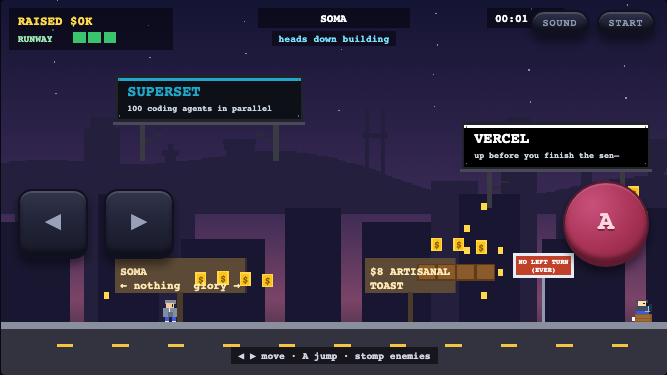
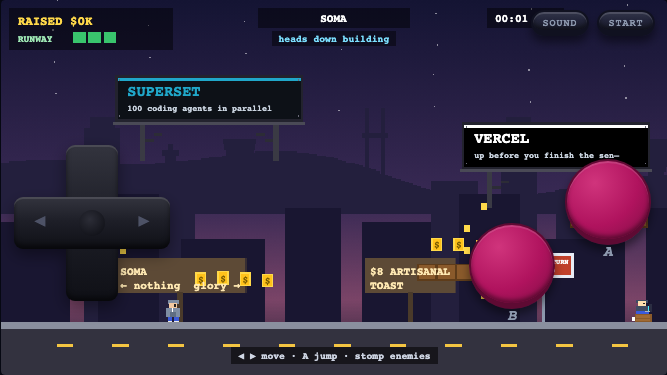
OMNICORP GAME BRO™: photo-accurate DMG deck, B button pitches the deck
Matched against the owner's reference photo in a Playwright screenshot
loop: one solid black cross d-pad (pseudo-element bars, transparent L/R
touch zones, center dish), magenta dome B/A set diagonally with navy
shell-print labels beneath, slanted silver SELECT/START-style pills
(SOUND/START), the diagonal speaker-slot grille done as rounded silver
slots, and the OMNICORP GAME BRO(tm) logo line top-left. B is a real
input now: it pitches the deck (same gate as X — only while holding
one), verified functionally. Fixed en route: #dpad container matched
the #touch div selector and rendered as a stray 70px tile.

diff --git a/index.html b/index.html
@@ -135,20 +135,54 @@ if (/^https?:$/.test(location.protocol) && location.hostname !== 'localhost'
   }
   #touch div:active { border-bottom-width:2px; transform:translateY(4px);
     box-shadow:inset 0 2px 6px rgba(0,0,0,.5), 0 1px 2px rgba(0,0,0,.3); }
-  #tL{left:calc(18px + env(safe-area-inset-left, 0px)); border-radius:14px 4px 4px 14px}
-  #tR{left:calc(104px + env(safe-area-inset-left, 0px)); border-radius:4px 14px 14px 4px}
-  #touch div#tJ{right:calc(18px + env(safe-area-inset-right, 0px)); width:86px; height:86px; line-height:78px; border-radius:50%;
-                background:radial-gradient(circle at 34% 28%, #c8517c 0%, #a83355 55%, #7e1f3e 100%);
-                color:#ffd6e0; border-color:#5e1b30; text-shadow:0 2px 0 rgba(0,0,0,.35);}
+  /* DMG cross d-pad: ONE solid black cross (two bars drawn by the container's
+     pseudo-elements), the L/R arms are transparent touch zones on top */
+  #touch div#dpad { position:absolute; width:156px; height:156px; pointer-events:none;
+          bottom:auto; background:none; border:0; box-shadow:none; border-radius:0; line-height:normal;
+          filter:drop-shadow(0 6px 8px rgba(0,0,0,.4)); }
+  #dpad::before, #dpad::after { content:''; position:absolute; border-radius:9px;
+          background:linear-gradient(180deg, #33343e 0%, #1e1f28 45%, #0f1016 100%);
+          box-shadow:inset 0 2px 0 rgba(255,255,255,.12), inset 0 -4px 5px rgba(0,0,0,.5); }
+  #dpad::before { left:52px; top:0; width:52px; height:156px; }
+  #dpad::after  { left:0; top:52px; width:156px; height:52px; }
+  #dpad div { position:absolute; bottom:auto; width:52px; height:52px; z-index:2;
+              background:none; border:0; box-shadow:none;
+              line-height:52px; font-size:18px; color:#4d5266; }
+  #dpad .dec { pointer-events:none; }
+  #dUp { left:52px; top:0; } #dDn { left:52px; top:104px; }
+  #dCtr{ left:52px; top:52px; }
+  #dCtr::after { content:''; position:absolute; inset:13px; border-radius:50%; z-index:3;
+                 background:radial-gradient(circle at 42% 36%, #2c2d37 0%, #13141b 75%); }
+  #tL { left:0; top:52px; pointer-events:auto; }
+  #tR { left:104px; top:52px; pointer-events:auto; }
+  #tL:active, #tR:active { color:#9aa0b8; transform:none; border:0; }
+  #touch div#tJ, #touch div#tB{right:calc(18px + env(safe-area-inset-right, 0px)); width:86px; height:86px; border-radius:50%;
+                background:radial-gradient(circle at 34% 28%, #d0347c 0%, #b0135e 55%, #7e0f44 100%);
+                color:transparent; border-color:#5e0a33; overflow:visible;}
+  #touch div#tJ::after, #touch div#tB::after { position:absolute; left:50%; bottom:-22px; transform:translateX(-50%);
+                content:'A'; color:#2d3a8c; font:bold italic 15px "Courier New",monospace; }
+  #touch div#tB::after { content:'B'; }
+  /* landscape (dark deck): the navy labels vanish on #101120 — lighten there */
+  @media (pointer: coarse) and (orientation: landscape) {
+    #touch div#tJ::after, #touch div#tB::after { color:#8d99ae; }
+    #dpad div { line-height:48px; }
+  }
+  #grille { position:fixed; display:none; z-index:4; pointer-events:none; transform:rotate(-22deg); }
+  #grille i { display:inline-block; width:11px; height:58px; border-radius:6px; margin-right:10px;
+              background:linear-gradient(90deg, #6f6a5e 0%, #3f3b32 45%, #8a8478 100%);
+              box-shadow:inset 0 3px 4px rgba(0,0,0,.55), 1px 1px 0 rgba(255,255,255,.5); }
   #touch div#tP, #touch div#tS{
     top:calc(10px + env(safe-area-inset-top, 0px)); bottom:auto;
     width:58px; height:26px; line-height:24px; font-size:10px; letter-spacing:1px;
     border-radius:13px; transform:rotate(0deg); color:#8d99ae; }
   #touch div#tP{ right:calc(12px + env(safe-area-inset-right, 0px)); }
   #touch div#tS{ right:calc(78px + env(safe-area-inset-right, 0px)); }
-  #shellBrand { position:fixed; display:none; z-index:4; left:0; right:0; text-align:center;
-                font:bold 11px "Courier New",monospace; color:#3f4258; letter-spacing:3px;
+  #shellBrand { position:fixed; display:none; z-index:4; left:24px; right:auto; text-align:left;
+                font:bold 11px "Courier New",monospace; color:#2d3a8c; letter-spacing:0;
                 pointer-events:none; }
+  #shellBrand b { font-size:11px; margin-right:6px; letter-spacing:1px; }
+  #shellBrand em { font-size:19px; font-style:italic; letter-spacing:1px; }
+  #shellBrand span { font-size:8px; vertical-align:super; }
   #shellBrand i { display:inline-block; width:6px; height:6px; border-radius:50%;
                   background:#7cffa5; margin-right:8px; vertical-align:1px; } /* power LED — steady, of course */
   @media (pointer: coarse) {
@@ -158,12 +192,17 @@ if (/^https?:$/.test(location.protocol) && location.hostname !== 'localhost'
   /* vintage handheld body (owner ask: '3D, vintage, like the old Nintendo handhelds') —
      portrait only; the DMG greige, the charcoal screen surround, the slanted pills */
   @media (pointer: coarse) and (orientation: portrait) {
-    body { background:linear-gradient(180deg, #b9b3a6 0%, #aaa294 55%, #9c9484 100%); }
+    body { background:linear-gradient(180deg, #c9c4b8 0%, #b9b3a6 45%, #a89f8f 100%); } /* DMG greige, matched to the reference photo */
     canvas#game { outline:10px solid #3a3f4a; border-radius:6px;
                   box-shadow:0 0 0 22px #454b58, 0 0 0 24px #2e323c, 0 10px 24px rgba(0,0,0,.35); }
     #shellBrand { color:#6f6857; letter-spacing:3px; }
-    #touch div#tP, #touch div#tS { transform:rotate(-18deg); background:linear-gradient(180deg,#8f8878,#6f6857);
-                                   color:#f0ece2; border-color:#4a4437; border-bottom-width:4px; }
+    #touch div#tP, #touch div#tS { transform:rotate(-24deg); color:transparent; overflow:visible;
+                                   background:linear-gradient(180deg,#7c7669 0%,#9d968a 45%,#c9c4b8 100%);
+                                   border-color:#dfdbd0; border-width:2px; border-bottom-width:2px; border-radius:14px;
+                                   box-shadow:inset 0 4px 6px rgba(0,0,0,.45), 0 1px 0 rgba(255,255,255,.6); }
+    #touch div#tP::after, #touch div#tS::after { position:absolute; left:50%; bottom:-19px; transform:translateX(-50%);
+                                   content:'START'; color:#2d3a8c; font:bold 10px "Courier New",monospace; letter-spacing:1px; }
+    #touch div#tS::after { content:'SOUND'; }
   }
   #bezelLabel { position:fixed; display:none; z-index:4; left:0; right:0; text-align:center;
                 font:bold 8px "Courier New",monospace; color:#8a92a6; letter-spacing:2px; pointer-events:none; }
@@ -228,9 +267,14 @@ if (/^https?:$/.test(location.protocol) && location.hostname !== 'localhost'
 <body>
 <div id="wrap"><div id="stack"><canvas id="game" width="480" height="270"></canvas><canvas id="txt"></canvas></div></div>
 <div id="ui"><div class="card" id="uicard"></div></div>
-<div id="touch"><div id="tL">◀</div><div id="tR">▶</div><div id="tJ">A</div><div id="tP">START</div><div id="tS">SOUND</div></div>
-<div id="shellBrand"><i></i>SF SPEEDRUN</div>
+<div id="touch">
+  <div id="dpad"><div class="dec" id="dUp"></div><div id="tL">◀</div><div class="dec" id="dCtr"></div><div id="tR">▶</div><div class="dec" id="dDn"></div></div>
+  <div id="tB">B</div><div id="tJ">A</div>
+  <div id="tP">START</div><div id="tS">SOUND</div>
+</div>
+<div id="shellBrand"><i></i><b>OMNICORP</b><em>GAME BRO</em><span>™</span></div>
 <div id="bezelLabel">DOT MATRIX WITH VENTURE SOUND</div>
+<div id="grille"><i></i><i></i><i></i><i></i><i></i><i></i></div>
 <button id="pauseChip">⏸ PAUSE</button>
 <div id="pauseMenu"><div class="card">
   <div style="color:#ffd94a; font-size:16px">PAUSED</div>
@@ -341,34 +385,43 @@ function fit() {
   // deck). Landscape = GBA (d-pad mid-left of the screen, A mid-right — thumbs rest
   // where the hardware would put them, and nothing sits over the ground line).
   const midY = Math.max(0, (window.innerHeight - 70) * 0.62); // landscape thumb arc, below the billboard band
-  for (const id of ['tL','tR','tJ']){
-    const el = document.getElementById(id);
-    if (portrait){ // deck hugs the BOTTOM of the phone — thumbs live there, not mid-screen (owner screenshots)
-      el.style.top = 'auto'; el.style.bottom = 'calc(120px + env(safe-area-inset-bottom, 0px))';
-      if (id === 'tJ'){ el.style.width = el.style.height = '104px'; el.style.lineHeight = '96px'; }
-      else { el.style.width = el.style.height = '80px'; el.style.lineHeight = '72px'; }
-    } else {
-      el.style.bottom = 'auto'; el.style.top = (id === 'tJ' ? midY - 8 : midY) + 'px';
-      el.style.width = el.style.height = el.style.lineHeight = '';
-    }
+  // DMG deck geometry (reference photo): cross pad left, B/A diagonal right (A high, B low),
+  // pills center-bottom, grille bottom-right. Portrait anchors to the bottom (thumbs).
+  const dpad = document.getElementById('dpad'), tJ2 = document.getElementById('tJ'), tB2 = document.getElementById('tB');
+  if (portrait){
+    dpad.style.left = 'calc(20px + env(safe-area-inset-left, 0px))'; dpad.style.right = 'auto';
+    dpad.style.top = 'auto'; dpad.style.bottom = 'calc(130px + env(safe-area-inset-bottom, 0px))';
+    tJ2.style.top = 'auto'; tJ2.style.bottom = 'calc(196px + env(safe-area-inset-bottom, 0px))';
+    tJ2.style.right = 'calc(20px + env(safe-area-inset-right, 0px))';
+    tB2.style.top = 'auto'; tB2.style.bottom = 'calc(162px + env(safe-area-inset-bottom, 0px))';
+    tB2.style.right = 'calc(116px + env(safe-area-inset-right, 0px))';
+  } else {
+    dpad.style.left = 'calc(14px + env(safe-area-inset-left, 0px))'; dpad.style.right = 'auto';
+    dpad.style.bottom = 'auto'; dpad.style.top = (midY - 44) + 'px';
+    tJ2.style.bottom = 'auto'; tJ2.style.top = (midY - 30) + 'px';
+    tJ2.style.right = 'calc(16px + env(safe-area-inset-right, 0px))';
+    tB2.style.bottom = 'auto'; tB2.style.top = (midY + 34) + 'px';
+    tB2.style.right = 'calc(112px + env(safe-area-inset-right, 0px))';
   }
   const tP = document.getElementById('tP'), tS = document.getElementById('tS');
   if (portrait){
-    tP.style.top = 'auto'; tP.style.bottom = 'calc(64px + env(safe-area-inset-bottom, 0px))'; tP.style.right = 'auto'; tP.style.left = 'calc(50% + 8px)';
-    tS.style.top = 'auto'; tS.style.bottom = 'calc(64px + env(safe-area-inset-bottom, 0px))'; tS.style.right = 'calc(50% + 8px)';
+    tP.style.top = 'auto'; tP.style.bottom = 'calc(64px + env(safe-area-inset-bottom, 0px))'; tP.style.right = 'auto'; tP.style.left = 'calc(50% - 20px)';
+    tS.style.top = 'auto'; tS.style.bottom = 'calc(64px + env(safe-area-inset-bottom, 0px))'; tS.style.right = 'calc(50% + 20px)';
   } else {
     tP.style.top = ''; tP.style.bottom = ''; tP.style.right = ''; tP.style.left = '';
     tS.style.top = ''; tS.style.bottom = ''; tS.style.right = '';
   }
   const brand = document.getElementById('shellBrand');
   brand.style.display = (isTouch && portrait) ? 'block' : 'none';
-  const bz = document.getElementById('bezelLabel');
+  const bz = document.getElementById('bezelLabel'), grille = document.getElementById('grille');
   if (portrait){
-    const deckTop = window.innerHeight - 120 - 80; // matches the d-pad bottom anchor
     const sb = stack.getBoundingClientRect().bottom;
     bz.style.display = 'block'; bz.style.top = Math.round(sb + 30) + 'px';
-    brand.style.top = Math.round(sb + Math.max(44, (deckTop - sb) / 2)) + 'px';
-  } else bz.style.display = 'none';
+    brand.style.top = Math.round(sb + 52) + 'px'; // logo top-left under the bezel, like the shell print
+    grille.style.display = 'block';
+    grille.style.right = '10px'; grille.style.left = 'auto';
+    grille.style.top = 'auto'; grille.style.bottom = 'calc(28px + env(safe-area-inset-bottom, 0px))';
+  } else { bz.style.display = 'none'; grille.style.display = 'none'; }
   // install hint: iOS Safari, not yet installed, not dismissed, title only (stepGame hides it on start)
   const standalone = navigator.standalone === true || matchMedia('(display-mode: standalone)').matches;
   let a2hsSeen = false; try { a2hsSeen = localStorage.getItem('fm_a2hs3') === '1'; } catch(e){}
@@ -558,6 +611,11 @@ if ('ontouchstart' in window) {
   document.getElementById('tS').addEventListener('touchstart', e => {
     e.preventDefault(); e.stopPropagation();
     initAudio(); setMuted(!muted);
+  }, {passive:false});
+  document.getElementById('tB').addEventListener('touchstart', e => {
+    e.preventDefault(); e.stopPropagation();
+    initAudio();
+    if (state === ST.PLAY) throwDeck(); // B = pitch, only fires while holding a PITCH DECK (same as X)
   }, {passive:false});
   cv.addEventListener('touchstart', e => {
     e.preventDefault(); anyKeyPressed = true; idleT = 0; initAudio();

diff --git a/qa/CHANGELOG.md b/qa/CHANGELOG.md
@@ -910,3 +910,15 @@ consciously: install-hint legs replace rotate-prompt legs; deck asserted bottom-
    any damage; the tick itself now reads 'BURN RATE — no time for breaks'. Verified live: warning →
    tick → -1 RUNWAY.
 4. Mobile probe updated to walk the real install flow (chip → card with 3 steps → GOT IT persists).
+
+## 2026-07-21 — [OMNICORP GAME BRO™] photo-accurate DMG deck (owner reference photo)
+
+Matched to the owner's Game Boy photo via a Playwright screenshot loop: ONE solid black cross d-pad
+(container pseudo-element bars; L/R arms are transparent touch zones; a specificity bug briefly
+rendered the container as a 70px button tile — caught by inspection), two magenta dome buttons set
+diagonally with navy italic labels UNDER them like the shell print — and **B now pitches the deck**
+(touch finally has the real verb; functionally verified: deckT set → tap B → deck shot spawns),
+A jumps. SELECT/START-style slanted silver pill wells labeled SOUND/START beneath, the diagonal
+silver speaker-slot grille returns (rounded slots, not the gradient bars the owner rejected), and the
+logo line reads **OMNICORP GAME BRO™** (owner-picked from four options) in DMG navy italic. Body
+greige matched to the photo. Landscape keeps the dark deck with lightened labels.